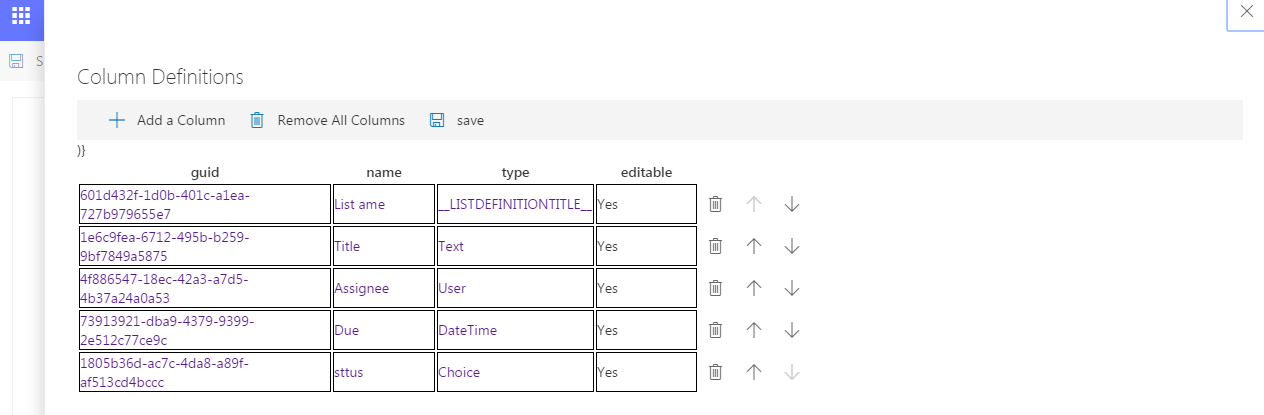
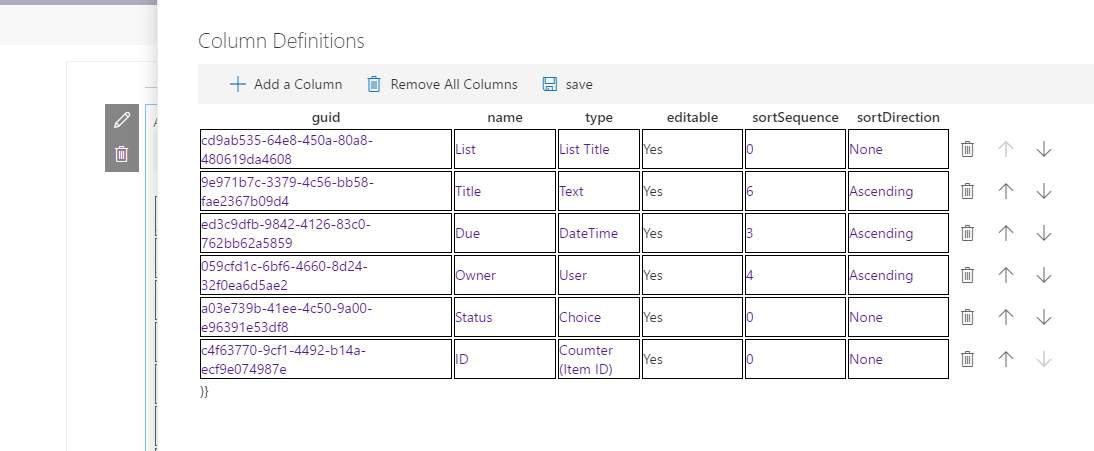
readme for react-multilist-grid (#131)
* rc0

* rc0

* more rc0

* rc0

* RC0 Done

* cleanup manifest

* Working on Web Selecor

* qqqqqqq

* 111

* Added Web selector to drill down to web

* fix merge conflicts

* s

* renmove react-router

* added saveall and undoall

* Add support for ID field

* saveAll

* fixed saveall across sites

* mark items as deleted (soft delete)

* work on soft delete

* work on soft delete

* Enable soft deletes

* Add SortInfo to columnDefinitions

* Work on initial sort

* pass columnDefinitions into listitemreducer for sort

* trying to get sortablecolumns in reducer...

* setup sort sequences

* work on compareres

* work on sort

* basic sorting workoing

* fix linting errors

* Fided issus with Duplicate 'Require"

* added images

* updated readme

* Update README.md

* fix coltype display and lists in subsites

* Added Images

* docs

* Update README.md

* Update README.md

diff --git a/samples/react-multilist-grid/src/webparts/spfxReactGrid/containers/PropertyFieldListDefinitionsHost.tsx b/samples/react-multilist-grid/src/webparts/spfxReactGrid/containers/PropertyFieldListDefinitionsHost.tsx
@@ -13,7 +13,7 @@ import * as utils from "../utils/utils";
 import { Web as SPWeb } from "sp-pnp-js";
 import { Site as SPSite } from "sp-pnp-js";
 import { Guid } from "@microsoft/sp-core-library";
-import {  PageContext } from "@microsoft/sp-page-context";
+import { PageContext } from "@microsoft/sp-page-context";
 export interface IPropertyFieldListDefinitionsHostProps {
   label: string;
   initialValue?: Array<ListDefinition>;
@@ -70,19 +70,38 @@ export default class PropertyFieldListDefinitionsHost extends React.Component<IP
   }
 
   private getListsForWeb(webUrl: string): any {
-
+    debugger;
     const spWeb = new SPWeb(webUrl);
     const promise = spWeb.lists.orderBy("Title").get()
       .then((response) => {
         const data = _.map(response, (item: any) => {
           return new WebList(item.Id, item.Title, item.Url, );
         });
-        for (const site of this.state.Sites) {
-          for (const web of site.webs) {
-            if (web.url === webUrl) {
-              web.lists = data;
-              web.listsFetched = true;
-            }
+        // for (const site of this.state.Sites) {
+        //   for (const web of site.webs) {
+        //     if (web.url === webUrl) {
+        //       web.lists = data;
+        //       web.listsFetched = true;
+        //     }
+        //   }
+        // }
+
+        const site: Site = _.find(this.state.Sites, (s: Site) => {
+          return (webUrl.substr(0, s.url.length).toLowerCase() === s.url.toLowerCase());
+        });
+        if (site) {
+          let web = _.find(site.webs, (w: Web) => {
+            return w.url = webUrl;
+          })
+          if (web) {
+            web.lists = data;
+            web.listsFetched = true;
+          }
+          else {
+            // TODO : frtch the title and ID
+            var idx: number = site.webs.push(new Web("", "", webUrl));// dont have id and titlle here
+            site.webs[idx].lists = data;
+            site.webs[idx].listsFetched = true;
           }
         }
         this.setState(this.state);
@@ -192,7 +211,7 @@ export default class PropertyFieldListDefinitionsHost extends React.Component<IP
               saveList={this.saveChanges}
               save={this.saveChanges}
               pageContext={this.props.PageContext}
-              />
+            />
 
           </Panel>
           : ''}

diff --git a/samples/react-multilist-grid/src/webparts/spfxReactGrid/containers/ColumnDefinitionContainer.tsx b/samples/react-multilist-grid/src/webparts/spfxReactGrid/containers/ColumnDefinitionContainer.tsx
@@ -150,7 +150,7 @@ export class ColumnDefinitionContainerNative extends React.Component<IColumnsPag
         name: "type",
         editable: true,
         editor: "FieldTypesEditor",
-        formatter: "",
+        formatter: "FieldTypesFormatter",
         width: 80
     },
     {
@@ -307,6 +307,13 @@ export class ColumnDefinitionContainerNative extends React.Component<IColumnsPag
 
             case "SharePointLookupCellFormatter":
                 return (<SharePointLookupCellFormatter value={entity[gridColumn.name]} onFocus={this.toggleEditing} />);
+            case "FieldTypesFormatter":
+            debugger;
+            const displayName=_.find(fieldTypes,ft=>{return ft.key===entity[gridColumn.name]}).text;
+                return (<a href="#" onFocus={this.toggleEditing} style={{ textDecoration: "none" }}>
+                    {displayName}
+                </a>
+                );
             default:
                 return (<a href="#" onFocus={this.toggleEditing} style={{ textDecoration: "none" }}>
                     {entity[gridColumn.name]}

diff --git a/samples/react-multilist-grid/src/webparts/spfxReactGrid/containers/ListDefinitionContainer.tsx b/samples/react-multilist-grid/src/webparts/spfxReactGrid/containers/ListDefinitionContainer.tsx
@@ -259,6 +259,7 @@ export class ListDefinitionContainerNative extends React.Component<IListViewPage
         }
       }
     }
+     this.props.getListsForWeb(utils.ParseSPField(listDef.webLookup).id);
     return []; // havent fetched parent yet,
   }
   public getFieldsForlist(listDef: ListDefinition, colType?: string): Array<WebListField> {

diff --git a/samples/react-videolibrary/typings/@ms/odsp.d.ts b/samples/react-videolibrary/typings/@ms/odsp.d.ts
@@ -1,10 +1,5 @@
 // Type definitions for Microsoft ODSP projects
 // Project: ODSP
 
-/// <reference path="odsp-webpack.d.ts" />
-
-/* Global definition for DEBUG builds */ 
-declare const DEBUG: boolean;
-
-/* Global definition for UNIT_TEST builds */ 
+/* Global definition for UNIT_TEST builds */
 declare const UNIT_TEST: boolean;

diff --git a/samples/react-multilist-grid/README.md b/samples/react-multilist-grid/README.md
@@ -1,9 +1,68 @@
 # SPFX React Grid
 
 ## Summary
-An SPFX Webpart that uses React, Office-UI-Fabric, and Redux to let users edit list data from multiple Webs and Multiple Sites in a single grid.
+React-multilist-grid is an SPFX webpart that uses React, Office-UI-Fabric, and Redux to let users edit list data from lists that reside in multiple webs and multiple sites in a single grid, similar to Quick Edit mode. The lists do not to be of the same type – you just need to create column mappings to tell the webpart which fields to show in which columns of the grid.
 
-![alt tag](/samples/react-spfx-multilist-grid/src/images/editListItems.PNG)
+The configuration panel of the webpart is show below. It has two buttons—one to configure the columns that will be displayed on the grid, and another to configure the lists that contain the data to be edited.
+![config panel](./src/images/Configuration.PNG)
+
+Clicking on the Update Columns button shows the Column Definition configuration panel shown below:
+![columnDefinitions panel](./src/images/columnDefinitions.PNG)
+
+When adding a column the webpart automatically assigns a guid for internal use.  In the &#39;name&#39; field you can use any name you like. The text entered here will be used as the column header in the grid. In the &#39;type&#39; field, you need to select the type of data to be displayed:
+![ColumnTypes panel](./src/images/ColumnTypes.PNG)
+
+These are SharePoint field types for the most part(not all field types have been implemented yet). There is one &#39;special&#39; field type called &#39;List Title&#39;. It is used to identify which list an item came from when displayed in the grid. You can move an item from one list (and site) to another by changing the selected list title in the grid. In the &#39;editable&#39; field you can specify whether this field can be edited in the grid(not yet implemented).  The sortSequence and sortDirection field let you set up default sorting on a given column.
+
+The columns will be displayed in the grid in the order they appear on the Column Definition panel. You can use the up and down arrow icons on each row to rearrange the columns. The delete icon on each row can be used to delete a column from the grid.
+
+After defining all the columns to be displayed in your grid, click the save icon in the command bar and you will be returned to the configuration panel for the webpart.
+
+Clicking the Update Lists button on the configuration panel will open the List Definitions panel:
+![ListDefinitions panel](./src/images/ListDefinitions.PNG)
+Here you configure which lists the webpart should display in the grid. When adding a list the webpart automatically assigns a guid for internal use.  In the &#39;SiteUrl&#39; you must enter the url of the site collection that contains the list. In the &#39;List Definition Title&#39; field enter a user friendly title for this list. The text you enter here will be shown on the grid for all items that came from this list in the &#39;List Title&#39; column (provided you have created a &#39;List Title&#39; column.
+
+When you tab to the  &#39;Web Containing List&#39; field, you can use the search icon:
+
+![SelectWeb1 panel](./src/images/SelectWeb1.PNG)
+
+to open the Web Selector which allows you to choose the web that contains the list to display:
+![SelectWeb2 panel](./src/images/SelectWeb2.PNG)
+
+The Web Selector initially shows all the webs under the rootweb. When you select a different web, it then shows the subwebs under the selected web.  You can keep selecting subwebs until you reach the web that contains the list to display.
+
+After selecting the web, tab over to the list column, and choose the list from the selected web that you want to show in the grid:
+
+![Select List panel](./src/images/Select List.PNG)
+
+Following the &#39;List&#39; field, there is one field for each column you created in the Column Definitions panel. When you tab to each of these columns a dropdown list is presented showing you all the fields in this list that match the field type you specified on the Column Definition panel:
+![Select List panel](./src/images/Select List.PNG)
+
+Choose the field you want to have displayed for this list in the specified column.
+
+[Selecting the Title Field]
+![Select the title field](./src/images/SelectField1.PNG)
+
+[Selecting the Due Date Field]
+![Select the Due Date field](./src/images/SelectField2.PNG)
+
+Click the save button in the command bar once you are done defining all your lists.
+
+The webpart will now display a grid showing all of the items in the lists you have selected:
+![editListItems](./src/images/editListItems.PNG)
+
+You can edit any cell in the grid by tabbing to it, or clicking on it. To move an item between lists, simply click on the &#39;List Title&#39; column and choose a new list:
+
+![MoveListItem](./src/images/MoveListItem.PNG)
+
+If you change a field of type &#39;user&#39;, the webpart will attempt to lookup the user in the destination site and use that user when adding the item to the new site. Similar mappings are done for other column types.
+
+You can click the save icon on each row to save the selected row back to SharePoint. The delete icon can be used to mark an item to be deleted:
+![deleteitem](./src/images/deleteitem.PNG)
+
+The item will not be removed from SharePoint until the save icon is clicked.
+
+Use the Undo icon to undo the changes made to an item.
 
 
 ## Used SharePoint Framework Version

diff --git a/samples/react-videolibrary/README.md b/samples/react-videolibrary/README.md
@@ -2,28 +2,49 @@
 
 ## Summary
 A set of 3 SPFX webparts that use different open-source carousels (react-3d-carousel, reactjs-coverface, and react-slick)
-to display videos stored on an O365 Video Channel. The idea being to display a carousel of the thumbnail images, and then 
-when a user clicks on one of the thumbnails, replace the tumbnail with a video player and start the video up. 
+to display videos stored on an Office 365 Video Channel. The idea being to display a carousel of the thumbnail images, and then 
+when a user clicks on one of the thumbnails, replace the tumbnail with a video player, or an Iframe playing the video. 
 
-The first webpart used react-3d-carousel. The carousel looks great, but i found no way to swap out the image and replace 
-it with a video player. This carousel would be fine for displayin a picture library though,
+All 3 webparts share a common utility class (O365Vutilities) that is used to talk to the tenants Video Service through its rest
+API (https://msdn.microsoft.com/en-us/office/office365/api/video-rest-operations)
 
-The second webpart used react-slick. The carousel is not as fancy as react-3d-carousel, but i was able to to swap out the 
-image and replace it with a video player once a user clicked it. I had trouble with the css and getting the next and previous 
-buttons to show. If you run the webpart, the buttons are there, they are just not visible. 
-
-Finally I tried reactjs-coverface. It has nice scrolling through the images withe the mousweheel, and some cool 3d effects.
-It was also simple to swap the image with a video player once a user clicked it (same code as react-slick). This is the best 
-of the three for my purposes.
+The first webpart used react-3d-carousel. The carousel looks great, but I found no way to swap out the image and replace 
+it with a video player or Iframe. This carousel would be fine for displaying a picture library though. A sample of the webpart 
+being used on a modern page is shown below:
+![react-3d-carousel](./src/assets/react-3d-carousel.PNG)
 
 
-In the future I want to modify this webpart to link a Sharepoint list with the video channel so that users can enter additional 
+And a sample of the webparts configuration:
+
+
+![react-3d-carousel configuration](./src/assets/react-3d-carousel config.PNG)
+
+The getPropertyPaneConfiguration of the webpart calls a method in the O365Vutilities class to get a list of 
+channels on the tenants Video Service, and allows the user to select a channel.
+
+
+
+The second webpart used react-slick. The carousel is not as fancy as react-3d-carousel, but I was able to to swap out the 
+image and replace it with an Iframe playing the Video once a user clicked it. I had trouble with the css and getting the next and previous 
+buttons to show. If you run the webpart, the buttons are there to the left and the right of the image, they are just not visible.You can find them by moving the mouse along the left and right borders. Hopefully someone with better css skiils than I can fix this. You can also change videos by clicking the dots at the bottom of the webpart, A sample of the webpart is shown below:
+
+![react-slick](./src/assets/react-slick.PNG)
+And a sample of the webparts configuration:
+
+![react-slick](./src/assets/react-slick-configuration.PNG)
+
+Finally I tried reactjs-coverflow. It has nice scrolling through the images with the mousweheel, and some cool 3d effects.
+It was also simple to swap the image with an Iframe playing the Video once a user clicked it (same code as react-slick). This is the best 
+of the three for my purposes. A sample of the webpart is shown below:
+![react-coverflow](./src/assets/react-coverflow.PNG)
+
+And a sample of its configuration (this one I made fully configurable, the others had a lot of hard-coded values)
+![react-coverflow](./src/assets/react-coverflow configuratioion.PNG)
+
+In the future I would like  to modify this webpart to link a SharePoint list with the video channel so that users can enter additional 
 metadata for the video and be anle to search/filter the videos using this metadata.
 
 See also https://github.com/russgove/O365VideoSync. It's a console app that you can schedule to run to synchronize an  Office 365 Video Channel with a sharepoint list (on prem or otherwise).
-
-
-![alt tag](/samples/react-spfx-multilist-grid/src/images/editListItems.PNG)
 
 
 ## Used SharePoint Framework Version
@@ -63,8 +84,7 @@ Version|Date|Comments
 - Clone this repository
 - in the command line run:
   - `npm install`
-  - `tsd install`
-  - `gulp serve`
+   - `gulp serve`
 
 > Include any additional steps as needed.
 
